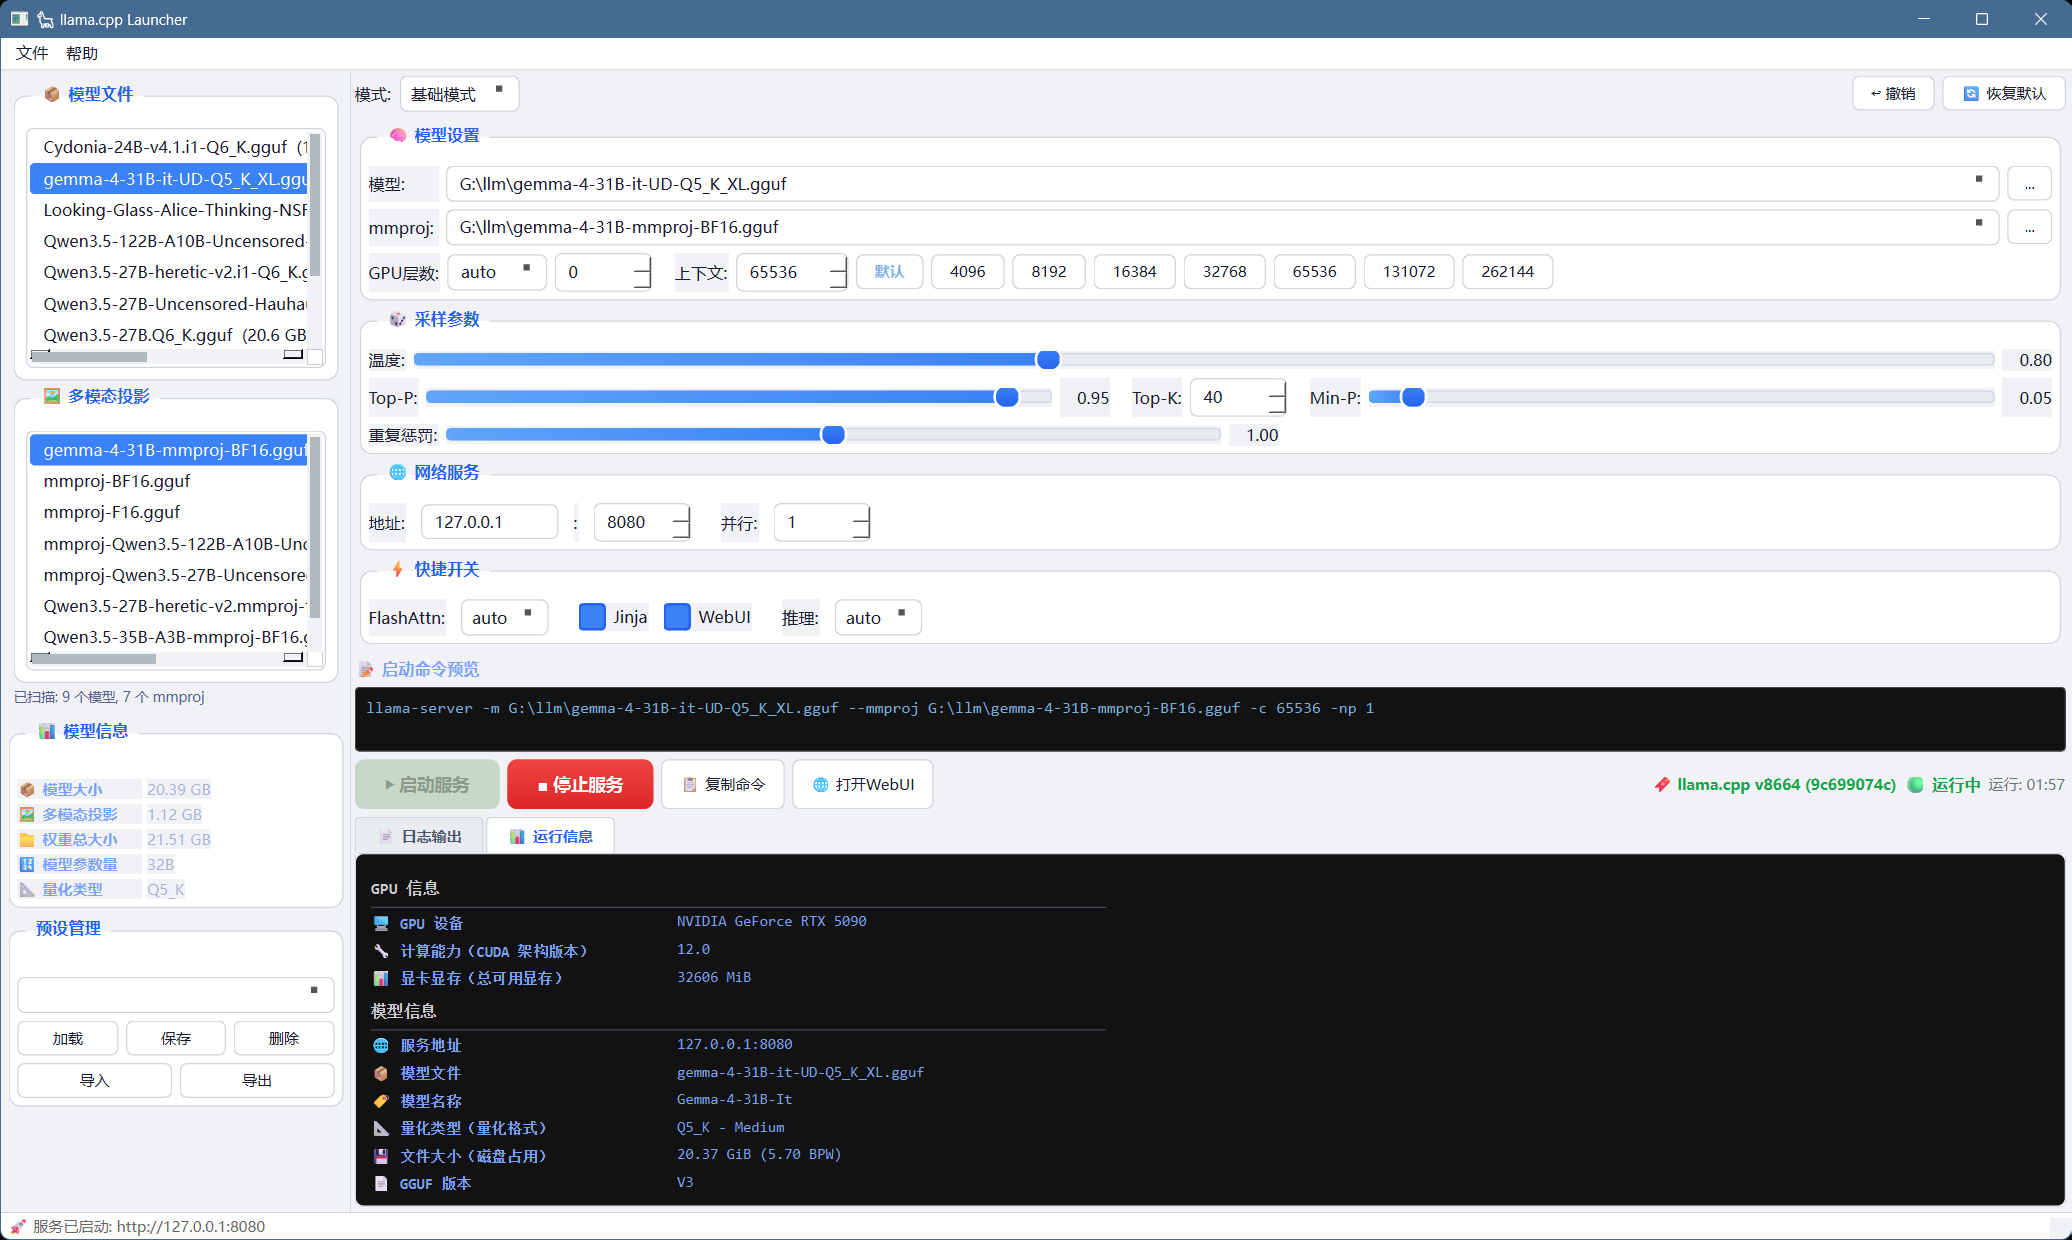
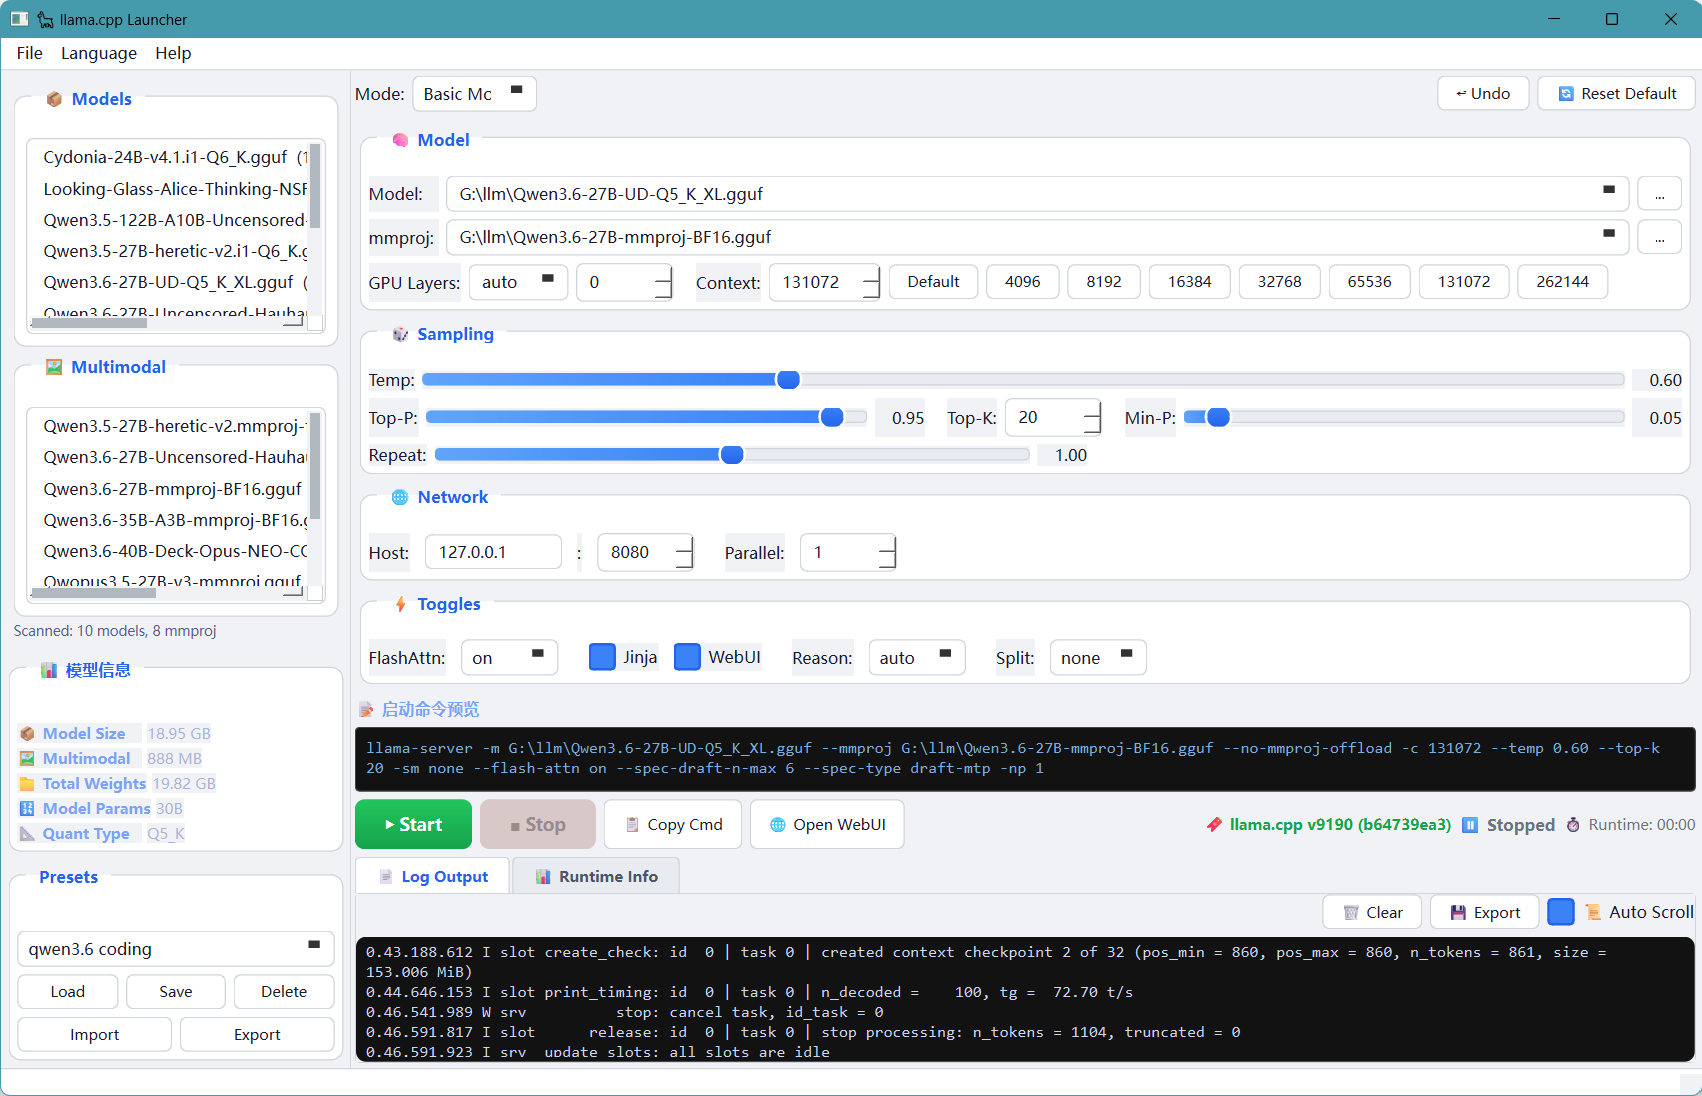
docs: update READMEs - add download section, fix URLs and project structure
- Add download instructions for both English and Chinese READMEs
- Fix clone URL from your-username to Mars-Albert
- Update project structure to include build_config.py and spec file
- Fix download wording (single exe, not zip)

diff --git a/README.md b/README.md
@@ -45,6 +45,16 @@ Unlike Ollama, LM Studio, and similar tools that **bundle a specific version of 
 
 ---
 
+## 📥 Download
+
+Download `LlamaCppLauncher.exe` from [GitHub Releases](https://github.com/Mars-Albert/llama-cpp-launcher/releases/latest) and double-click to run — no Python installation required.
+
+> ⚠️ Windows SmartScreen may warn about the unsigned executable. Click "More info" → "Run anyway" to proceed.
+
+**Prerequisites:** `llama-server` must be installed and added to your system PATH. Download from [ggml-org/llama.cpp](https://github.com/ggml-org/llama.cpp).
+
+---
+
 ## ✨ Features
 
 ### 🎭 Two Modes
@@ -151,7 +161,7 @@ The info panel **updates live** — GPU offload layers appear during loading, bu
 
 ```bash
 # Clone the repository
-git clone https://github.com/your-username/llama-cpp-launcher.git
+git clone https://github.com/Mars-Albert/llama-cpp-launcher.git
 cd llama-cpp-launcher
 
 # Create virtual environment and install dependencies
@@ -187,17 +197,19 @@ python main.py
 llama-cpp-launcher/
 ├── main.py                  # Application entry point
 ├── run.bat                  # Windows launcher script
+├── build_config.py          # Build configuration (name, version)
+├── llama_cpp_launcher.spec  # PyInstaller build spec
+├── requirements.txt         # Python dependencies
 ├── core/
 │   ├── config.py            # Configuration & preset management
 │   ├── defaults.py          # Default parameter definitions & CLI parsing
 │   ├── i18n.py              # Internationalization (Chinese/English)
 │   └── runner.py            # llama-server process management
-├── ui/
-│   ├── main_window.py       # Main application window
-│   ├── basic_panel.py       # Basic mode panel
-│   ├── advanced_panel.py    # Advanced mode panel (100+ parameters)
-│   └── model_browser.py     # GGUF model file browser
-└── requirements.txt         # Python dependencies
+└── ui/
+    ├── main_window.py       # Main application window
+    ├── basic_panel.py       # Basic mode panel
+    ├── advanced_panel.py    # Advanced mode panel (100+ parameters)
+    └── model_browser.py     # GGUF model file browser
 ```
 
 ---

diff --git a/README_zh.md b/README_zh.md
@@ -45,6 +45,16 @@
 
 ---
 
+## 📥 下载
+
+从 [GitHub Releases](https://github.com/Mars-Albert/llama-cpp-launcher/releases/latest) 下载 `LlamaCppLauncher.exe`，双击即可运行 — 无需安装 Python。
+
+> ⚠️ Windows SmartScreen 可能会警告未签名的可执行文件。点击"更多信息" → "仍要运行"即可。
+
+**前提条件：** `llama-server` 必须已安装并添加到系统 PATH 环境变量。从 [ggml-org/llama.cpp](https://github.com/ggml-org/llama.cpp) 下载。
+
+---
+
 ## ✨ 功能详解
 
 ### 🎭 双模式设计
@@ -151,7 +161,7 @@
 
 ```bash
 # 克隆仓库
-git clone https://github.com/your-username/llama-cpp-launcher.git
+git clone https://github.com/Mars-Albert/llama-cpp-launcher.git
 cd llama-cpp-launcher
 
 # 创建虚拟环境并安装依赖
@@ -187,17 +197,19 @@ python main.py
 llama-cpp-launcher/
 ├── main.py                  # 应用程序入口
 ├── run.bat                  # Windows 启动脚本
+├── build_config.py          # 构建配置（名称、版本）
+├── llama_cpp_launcher.spec  # PyInstaller 构建配置
+├── requirements.txt         # Python 依赖
 ├── core/
 │   ├── config.py            # 配置与预设管理
 │   ├── defaults.py          # 默认参数定义与 CLI 解析
 │   ├── i18n.py              # 国际化（中文/英文）
 │   └── runner.py            # llama-server 进程管理
-├── ui/
-│   ├── main_window.py       # 主窗口
-│   ├── basic_panel.py       # 基础模式面板
-│   ├── advanced_panel.py    # 高级模式面板（100+ 参数）
-│   └── model_browser.py     # GGUF 模型文件浏览器
-└── requirements.txt         # Python 依赖
+└── ui/
+    ├── main_window.py       # 主窗口
+    ├── basic_panel.py       # 基础模式面板
+    ├── advanced_panel.py    # 高级模式面板（100+ 参数）
+    └── model_browser.py     # GGUF 模型文件浏览器
 ```
 
 ---